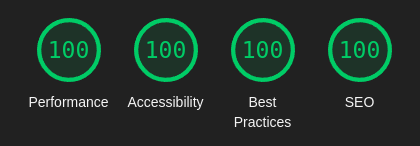
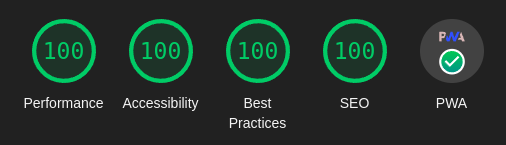
add PWA support

diff --git a/build.js b/build.js
@@ -61,16 +61,38 @@ function compileTemplate(templatePath, data) {
     return template(data);
 }
 
+function createManifest(data) {
+    return {
+        name: data.title || 'LinkMeUp',
+        short_name: data.short_title || 'LinkMeUp',
+        description: data.description || 'Get all weblinks of LinkMeUp',
+        start_url: '/',
+        display: 'standalone',
+        background_color: data.backgroundColor || '#ffffff',
+        theme_color: data.themeColor || '#0078D4',
+        icons: [
+            {
+                src: data.logo || '/android-chrome-192x192.png',
+                sizes: '192x192',
+                type: 'image/png',
+                purpose: "maskable"
+            },
+            {
+                src: data.logo2 || "/android-chrome-512x512.png",
+                sizes: "512x512",
+                type: "image/png",
+                purpose: "any"
+            }
+        ],
+    };
+}
+
 // Main build function
 function build() {
     const distPath = path.join(__dirname, 'dist');
     const baseHtmlPath = path.join(__dirname, 'public', 'index.html');
     const dataPath = path.join(__dirname, 'src', 'data.json');
     const cssPath = path.join(__dirname, 'public', 'styles', 'main.css');
-    const imagesSrcPath = path.join(__dirname, 'public', 'images');
-    const imagesDestPath = path.join(distPath, 'images');
-    const faviconSrcPath = path.join(__dirname, 'public', 'favicons');
-    const faviconDestPath = path.join(distPath);
     const headTemplatePath = path.join(__dirname, 'src', 'templates', 'head-template.hbs');
     const headerTemplatePath = path.join(__dirname, 'src', 'templates', 'header-template.hbs');
     const linksTemplatePath = path.join(__dirname, 'src', 'templates', 'social-links-template.hbs');
@@ -117,14 +139,27 @@ function build() {
     finalHtml = inlineCSS(finalHtml, css);
     finalHtml = minimizeHTML(finalHtml);
 
+    let manifest = createManifest(data.head)
+
     // Ensure dist directory exists
     if (!fs.existsSync(distPath)) {
         fs.mkdirSync(distPath);
     }
 
     writeFile(path.join(distPath, 'index.html'), finalHtml);
+    writeFile(path.join(distPath, 'manifest.json'), JSON.stringify(manifest));
+
+    const imagesSrcPath = path.join(__dirname, 'public', 'images');
+    const imagesDestPath = path.join(distPath, 'images');
     copyImages(imagesSrcPath, imagesDestPath);
+
+    const faviconSrcPath = path.join(__dirname, 'public', 'favicons');
+    const faviconDestPath = path.join(distPath);
     copyImages(faviconSrcPath, faviconDestPath)
+
+    const javascriptSrcPath = path.join(__dirname, 'src', 'scripts');
+    const javascriptDestPath = path.join(distPath);
+    copyImages(javascriptSrcPath, javascriptDestPath)
 }
 
 // Run the build process

diff --git a/src/scripts/service-worker.js b/src/scripts/service-worker.js
@@ -1,0 +1,19 @@
+self.addEventListener('install', (event) => {
+    event.waitUntil(
+        caches.open('linkemeup').then((cache) => {
+            return cache.addAll([
+                '/',
+                '/index.html',
+                /* Add other URLs of assets to cache */
+            ]);
+        })
+    );
+});
+
+self.addEventListener('fetch', (event) => {
+    event.respondWith(
+        caches.match(event.request).then((response) => {
+            return response || fetch(event.request);
+        })
+    );
+});

diff --git a/README.md b/README.md
@@ -11,6 +11,7 @@ This is a sleek, lightweight single-page application designed to consolidate an 
 - **Handlebars Templating**: Pre-compiled Handlebars templates for a JavaScript-free frontend.
 - **Optimized Performance**: Minimized CSS and HTML files, and optimized images for lightning-fast loading.
 - **Accessibility and SEO**: Adherence to web accessibility standards and SEO-friendly structure.
+- **Full PWA Support**: use browser caching and offline support for quick loading.
 - **Development Server**: Develop and view the changes on your page in high speed.
 
 ## Organizing the Files
